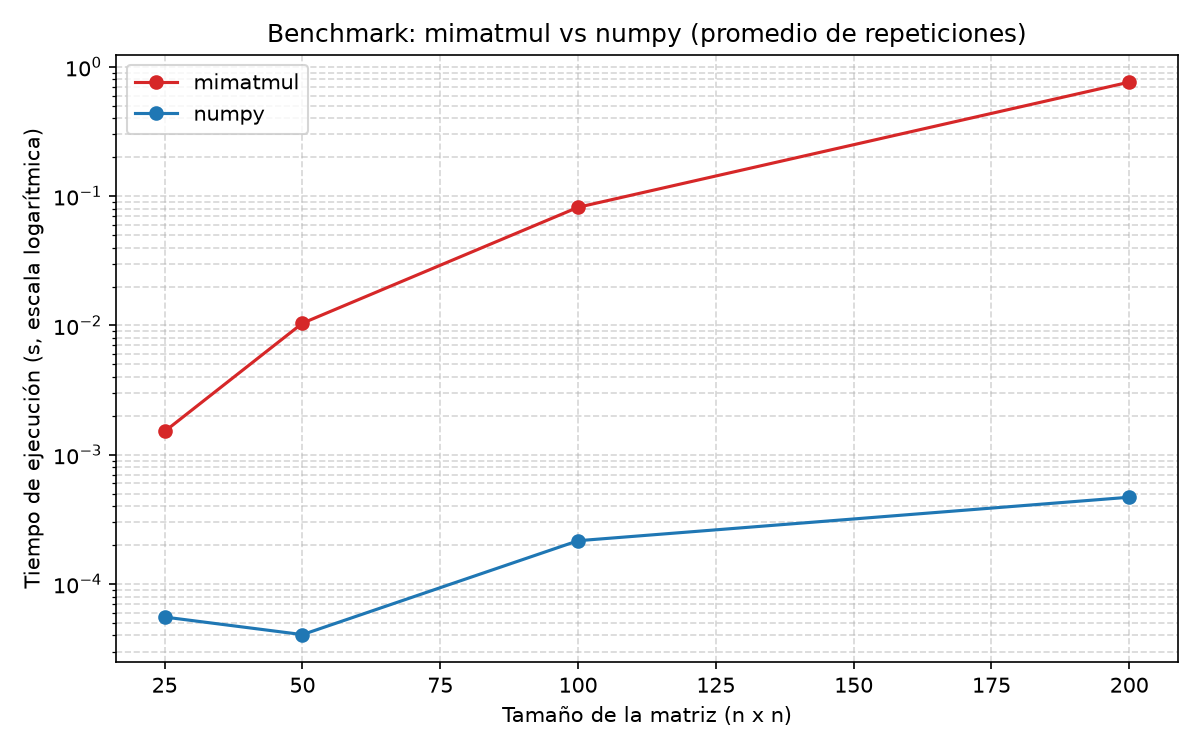
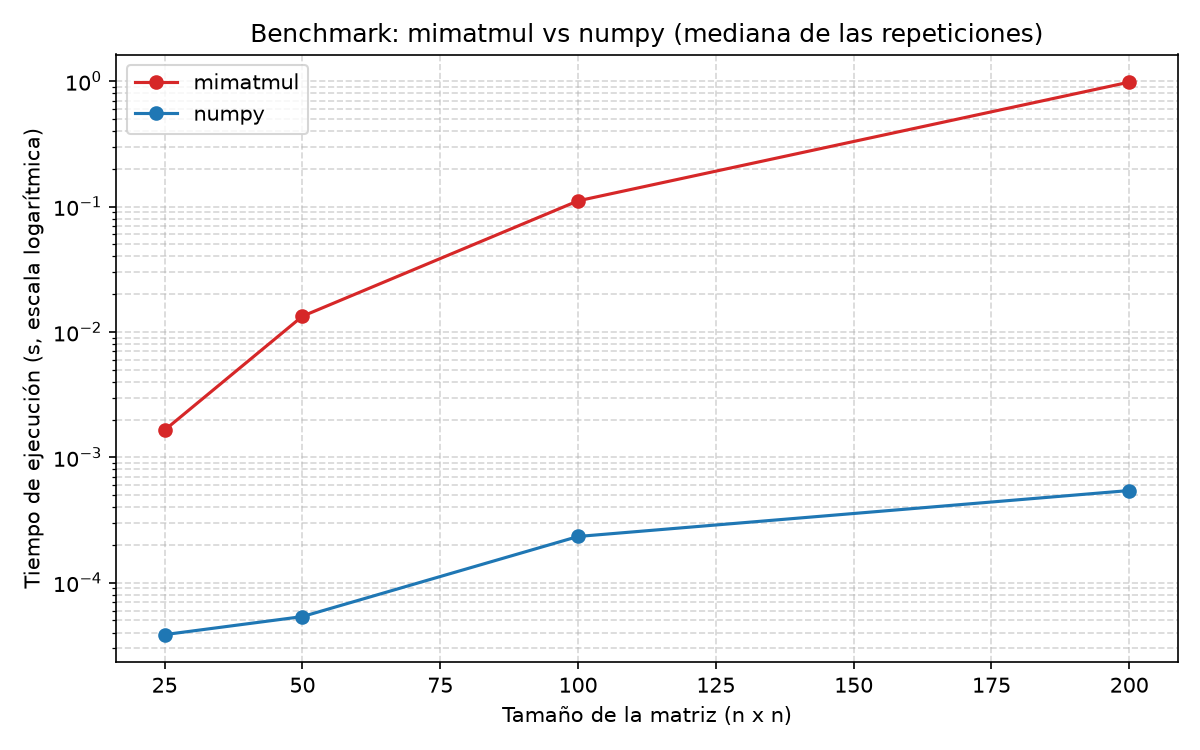
P0E2: repite benchmark con 10 repeticiones y mediana, corrige ruido en numpy

diff --git a/src/benchmark.py b/src/benchmark.py
@@ -31,8 +31,8 @@ RUTA_RECURSOS = RAIZ / "data" / "recursos_durante_benchmark.csv"
 RUTA_FIGURA = RAIZ / "figures" / "benchmark.png"
 
 TAMANOS = [25, 50, 100, 200]
-REPETICIONES = 5
-WARMUP = 1
+REPETICIONES = 10
+WARMUP = 2
 INTERVALO_MONITOR = 0.25
 
 
@@ -219,12 +219,14 @@ def generar_figura(filas, ruta):
     fig, eje = plt.subplots(figsize=(8, 5))
     for metodo, color in (("mimatmul", "tab:red"), ("numpy", "tab:blue")):
         tamanos = sorted(datos[metodo])
-        tiempos = [np.mean(datos[metodo][t]) for t in tamanos]
+        tiempos = [np.median(datos[metodo][t]) for t in tamanos]
         eje.plot(tamanos, tiempos, marker="o", color=color, label=metodo)
 
     eje.set_xlabel("Tamaño de la matriz (n x n)")
     eje.set_ylabel("Tiempo de ejecución (s, escala logarítmica)")
-    eje.set_title("Benchmark: mimatmul vs numpy (promedio de repeticiones)")
+    eje.set_title(
+        "Benchmark: mimatmul vs numpy (mediana de las repeticiones)"
+    )
     eje.set_yscale("log")
     eje.grid(True, which="both", linestyle="--", alpha=0.5)
     eje.legend()

diff --git a/README.md b/README.md
@@ -94,24 +94,24 @@ matriz moderados.
 
 ## Resultados
 
-Gráfico del benchmark (promedio de 5 repeticiones por tamaño, escala
+Gráfico del benchmark (mediana de 10 repeticiones por tamaño, escala
 logarítmica en el eje Y):
 
 ![Benchmark: mimatmul vs numpy](figures/benchmark.png)
 
-Tiempos promedio observados (segundos):
+Tiempos medianos observados (segundos):
 
 | Tamaño | mimatmul | numpy | Diferencia |
 |---|---|---|---|
-| 25 | 0.0015 | 0.00006 | ~25× |
-| 50 | 0.0104 | 0.00004 | ~260× |
-| 100 | 0.0821 | 0.00022 | ~370× |
-| 200 | 0.7624 | 0.00047 | ~1600× |
+| 25 | 0.00165 | 0.000039 | ~42× |
+| 50 | 0.0134 | 0.000054 | ~250× |
+| 100 | 0.111 | 0.000234 | ~475× |
+| 200 | 0.983 | 0.000544 | ~1800× |
 
 Observaciones durante una ejecución representativa:
 
-- **CPU**: promedio 23.8 %, máximo 35.7 %.
-- **RAM**: promedio 88.1 %, máximo 88.4 %.
+- **CPU**: promedio 32.4 %, máximo 40.2 %.
+- **RAM**: promedio 88.0 %, máximo 88.5 %.
 - **GPU**: 0 % durante todo el benchmark.
 
 ### Comentario sobre el comportamiento observado
@@ -155,7 +155,10 @@ acción del proyecto.
   registrar actividad; se corrigió aumentando los tamaños a `[25, 50, 100,
   200]` y ajustando el monitor para que la primera lectura de CPU no fuera 0.
   También se corrigió el calentamiento para que NumPy ejecutara `A @ B` y no
-  `mimatmul`.
+  `mimatmul`. Luego, al repetir el benchmark, los tiempos de NumPy (decenas de
+  microsegundos) mostraban valores atípicos que desordenaban el promedio, por
+  lo que se aumentaron las repeticiones a 10 y se pasó a usar la mediana
+  (robusta ante atípicos) para el gráfico.
 - **Qué parte comprendo mejor**: la implementación de `mimatmul` (triple bucle
   sobre las dimensiones) y la lógica del benchmark (calentamiento,
   `time.perf_counter`, repeticiones, guardado en CSV y gráfico).
